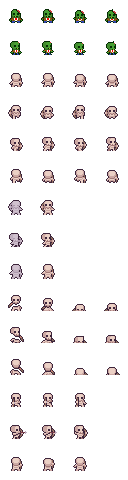
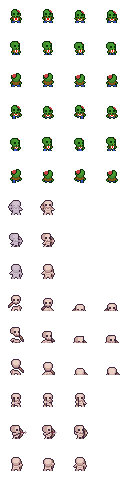
Added zombie player class, animated zombie movement.

diff --git a/src/Entities/Players/Zombie.java b/src/Entities/Players/Zombie.java
@@ -1,0 +1,194 @@
+package Entities.Players;
+
+import Handlers.ImageHandler;
+import Handlers.KeyHandler;
+import World.Tile;
+
+import java.awt.*;
+import java.awt.image.BufferedImage;
+
+public class Zombie extends Player{
+
+    BufferedImage sprites = ImageHandler.loadImage("Assets/Entities/Players/Zombie/zombies.png");
+    int column1 = 7, column2 = 39, column3 = 71, column4 = 103, row1 = 7, row2 = 39, row3 = 71, row4 = 103, row5 = 135, row6 = 167, row7 = 199, row8 = 231, row9 = 263, row10 = 295, row11 = 327, row12 = 359, row13 = 391, row14 = 423, row15 = 455;
+
+
+    /**
+     * Enemy that follows player
+     *
+     * @param health       enemy health
+     * @param speed        enemy speed
+     * @param width        enemy width
+     * @param height       enemy height
+     * @param name         enemy name
+     * @param worldX       world x position
+     * @param worldY       world y position
+     * @param xOffset      x offset for hitbox
+     * @param yOffset      y offset for hitbox
+     * @param hitBoxWidth  hitbox width
+     * @param hitBoxHeight hitbox height
+     * @param keyHandler   keyhandler to handle key presses
+     */
+    public Zombie(int health, double speed, int width, int height, String name, double worldX, double worldY, int xOffset, int yOffset, int hitBoxWidth, int hitBoxHeight, KeyHandler keyHandler) {
+        super(health, speed, width, height, name, worldX, worldY, xOffset, yOffset, hitBoxWidth, hitBoxHeight, keyHandler);
+        setCharacterState();
+    }
+
+    void setCharacterState(){
+        type = 'z';
+        characterAttackFrames = 36;
+        characterAttackCooldown = 30;
+        attackFrames = characterAttackFrames;
+        attackCooldown = characterAttackCooldown;
+        maxAnimationState = 3;
+    }
+
+    /**
+     * Updates the position of the player
+     * @param baseLayerTiles
+     */
+    public void update(Tile[][] baseLayerTiles) {
+        healthHandler.updateHealth(this.getHealth());
+        this.tiles = baseLayerTiles;
+        updateEntityPosition();
+        if (!attacking && !inAbility) move(); // If player is not attacking, they can move
+        hitbox.update(this); // Update hitbox
+        updateFrames();
+    }
+
+    @Override
+    public void draw(Graphics2D g2) {
+        if (!attacking && !inAbility) {
+            if (direction == 'd') {
+                if (!checkMoving()) {
+                    switch (animationState) {
+                        case 0:
+                            g2.drawImage(sprites, (int) screenX, (int) screenY, (int) screenX + getWidth(), (int) screenY + this.getHeight(), column1, row1, column1 + Tile.normalTileSize, row1 + Tile.normalTileSize, transparent, null);
+                            break;
+                        case 1:
+                            g2.drawImage(sprites, (int) screenX, (int) screenY, (int) screenX + getWidth(), (int) screenY + this.getHeight(), column2, row1, column2 + Tile.normalTileSize, row1 + Tile.normalTileSize, transparent, null);
+                            break;
+                        case 2:
+                            g2.drawImage(sprites, (int) screenX, (int) screenY, (int) screenX + getWidth(), (int) screenY + this.getHeight(), column3, row1, column3 + Tile.normalTileSize, row1 + Tile.normalTileSize, transparent, null);
+                            break;
+                        case 3:
+                            g2.drawImage(sprites, (int) screenX, (int) screenY, (int) screenX + getWidth(), (int) screenY + this.getHeight(), column4, row1, column4 + Tile.normalTileSize, row1 + Tile.normalTileSize, transparent, null);
+                            break;
+                    }
+                } else {
+                    switch (animationState) {
+                        case 0:
+                            g2.drawImage(sprites, (int) screenX, (int) screenY, (int) screenX + getWidth(), (int) screenY + this.getHeight(), column1, row4, column1 + Tile.normalTileSize, row4 + Tile.normalTileSize, transparent, null);
+                            break;
+                        case 1:
+                            g2.drawImage(sprites, (int) screenX, (int) screenY, (int) screenX + getWidth(), (int) screenY + this.getHeight(), column2, row4, column2 + Tile.normalTileSize, row4 + Tile.normalTileSize, transparent, null);
+                            break;
+                        case 2:
+                            g2.drawImage(sprites, (int) screenX, (int) screenY, (int) screenX + getWidth(), (int) screenY + this.getHeight(), column3, row4, column3 + Tile.normalTileSize, row4 + Tile.normalTileSize, transparent, null);
+                            break;
+                        case 3:
+                            g2.drawImage(sprites, (int) screenX, (int) screenY, (int) screenX + getWidth(), (int) screenY + this.getHeight(), column4, row4, column4 + Tile.normalTileSize, row4 + Tile.normalTileSize, transparent, null);
+                            break;
+                    }
+                }
+            } else if (direction == 'r') {
+                if (!checkMoving()) {
+                    switch (animationState) {
+                        case 0:
+                            g2.drawImage(sprites, (int) screenX, (int) screenY, (int) screenX + getWidth(), (int) screenY + this.getHeight(), column1, row2, column1 + Tile.normalTileSize, row2 + Tile.normalTileSize, transparent, null);
+                            break;
+                        case 1:
+                            g2.drawImage(sprites, (int) screenX, (int) screenY, (int) screenX + getWidth(), (int) screenY + this.getHeight(), column2, row2, column2 + Tile.normalTileSize, row2 + Tile.normalTileSize, transparent, null);
+                            break;
+                        case 2:
+                            g2.drawImage(sprites, (int) screenX, (int) screenY, (int) screenX + getWidth(), (int) screenY + this.getHeight(), column3, row2, column3 + Tile.normalTileSize, row2 + Tile.normalTileSize, transparent, null);
+                            break;
+                        case 3:
+                            g2.drawImage(sprites, (int) screenX, (int) screenY, (int) screenX + getWidth(), (int) screenY + this.getHeight(), column4, row2, column4 + Tile.normalTileSize, row2 + Tile.normalTileSize, transparent, null);
+                            break;
+                    }
+                } else {
+                    switch (animationState) {
+                        case 0:
+                            g2.drawImage(sprites, (int) screenX, (int) screenY, (int) screenX + getWidth(), (int) screenY + this.getHeight(), column1, row5, column1 + Tile.normalTileSize, row5 + Tile.normalTileSize, transparent, null);
+                            break;
+                        case 1:
+                            g2.drawImage(sprites, (int) screenX, (int) screenY, (int) screenX + getWidth(), (int) screenY + this.getHeight(), column2, row5, column2 + Tile.normalTileSize, row5 + Tile.normalTileSize, transparent, null);
+                            break;
+                        case 2:
+                            g2.drawImage(sprites, (int) screenX, (int) screenY, (int) screenX + getWidth(), (int) screenY + this.getHeight(), column3, row5, column3 + Tile.normalTileSize, row5 + Tile.normalTileSize, transparent, null);
+                            break;
+                        case 3:
+                            g2.drawImage(sprites, (int) screenX, (int) screenY, (int) screenX + getWidth(), (int) screenY + this.getHeight(), column4, row5, column4 + Tile.normalTileSize, row5 + Tile.normalTileSize, transparent, null);
+                            break;
+                    }
+                }
+            } else if (direction == 'u') {
+                if (!checkMoving()) {
+                    switch (animationState) {
+                        case 0:
+                            g2.drawImage(sprites, (int) screenX, (int) screenY, (int) screenX + getWidth(), (int) screenY + this.getHeight(), column1, row3, column1 + Tile.normalTileSize, row3 + Tile.normalTileSize, transparent, null);
+                            break;
+                        case 1:
+                            g2.drawImage(sprites, (int) screenX, (int) screenY, (int) screenX + getWidth(), (int) screenY + this.getHeight(), column2, row3, column2 + Tile.normalTileSize, row3 + Tile.normalTileSize, transparent, null);
+                            break;
+                        case 2:
+                            g2.drawImage(sprites, (int) screenX, (int) screenY, (int) screenX + getWidth(), (int) screenY + this.getHeight(), column3, row3, column3 + Tile.normalTileSize, row3 + Tile.normalTileSize, transparent, null);
+                            break;
+                        case 3:
+                            g2.drawImage(sprites, (int) screenX, (int) screenY, (int) screenX + getWidth(), (int) screenY + this.getHeight(), column4, row3, column4 + Tile.normalTileSize, row3 + Tile.normalTileSize, transparent, null);
+                            break;
+                    }
+                } else {
+                    switch (animationState) {
+                        case 0:
+                            g2.drawImage(sprites, (int) screenX, (int) screenY, (int) screenX + getWidth(), (int) screenY + this.getHeight(), column1, row6, column1 + Tile.normalTileSize, row6 + Tile.normalTileSize, transparent, null);
+                            break;
+                        case 1:
+                            g2.drawImage(sprites, (int) screenX, (int) screenY, (int) screenX + getWidth(), (int) screenY + this.getHeight(), column2, row6, column2 + Tile.normalTileSize, row6 + Tile.normalTileSize, transparent, null);
+                            break;
+                        case 2:
+                            g2.drawImage(sprites, (int) screenX, (int) screenY, (int) screenX + getWidth(), (int) screenY + this.getHeight(), column3, row6, column3 + Tile.normalTileSize, row6 + Tile.normalTileSize, transparent, null);
+                            break;
+                        case 3:
+                            g2.drawImage(sprites, (int) screenX, (int) screenY, (int) screenX + getWidth(), (int) screenY + this.getHeight(), column4, row6, column4 + Tile.normalTileSize, row6 + Tile.normalTileSize, transparent, null);
+                            break;
+                    }
+                }
+            } else {
+                if (!checkMoving()) {
+                    switch (animationState) {
+                        case 0:
+                            g2.drawImage(sprites, (int) screenX + getWidth(), (int) screenY, (int) screenX, (int) screenY + this.getHeight(), column1, row2, column1 + Tile.normalTileSize, row2 + Tile.normalTileSize, transparent, null);
+                            break;
+                        case 1:
+                            g2.drawImage(sprites, (int) screenX + getWidth(), (int) screenY, (int) screenX, (int) screenY + this.getHeight(), column2, row2, column2 + Tile.normalTileSize, row2 + Tile.normalTileSize, transparent, null);
+                            break;
+                        case 2:
+                            g2.drawImage(sprites, (int) screenX + getWidth(), (int) screenY, (int) screenX, (int) screenY + this.getHeight(), column3, row2, column3 + Tile.normalTileSize, row2 + Tile.normalTileSize, transparent, null);
+                            break;
+                        case 3:
+                            g2.drawImage(sprites, (int) screenX + getWidth(), (int) screenY, (int) screenX, (int) screenY + this.getHeight(), column4, row2, column4 + Tile.normalTileSize, row2 + Tile.normalTileSize, transparent, null);
+                            break;
+                    }
+                } else {
+                    switch (animationState) {
+                        case 0:
+                            g2.drawImage(sprites, (int) screenX + getWidth(), (int) screenY, (int) screenX, (int) screenY + this.getHeight(), column1, row5, column1 + Tile.normalTileSize, row5 + Tile.normalTileSize, transparent, null);
+                            break;
+                        case 1:
+                            g2.drawImage(sprites, (int) screenX + getWidth(), (int) screenY, (int) screenX, (int) screenY + this.getHeight(), column2, row5, column2 + Tile.normalTileSize, row5 + Tile.normalTileSize, transparent, null);
+                            break;
+                        case 2:
+                            g2.drawImage(sprites, (int) screenX + getWidth(), (int) screenY, (int) screenX, (int) screenY + this.getHeight(), column3, row5, column3 + Tile.normalTileSize, row5 + Tile.normalTileSize, transparent, null);
+                            break;
+                        case 3:
+                            g2.drawImage(sprites, (int) screenX + getWidth(), (int) screenY, (int) screenX, (int) screenY + this.getHeight(), column4, row5, column4 + Tile.normalTileSize, row5 + Tile.normalTileSize, transparent, null);
+                            break;
+                    }
+                }
+            }
+        }
+    }
+
+}

diff --git a/src/System/Panels/GamePanel.java b/src/System/Panels/GamePanel.java
@@ -1,10 +1,7 @@
 package System.Panels;
 
 import Entities.Enemies.EternalSnail;
-import Entities.Players.Goblin;
-import Entities.Players.Player;
-import Entities.Players.Skeleton;
-import Entities.Players.Vampire;
+import Entities.Players.*;
 import Handlers.AbilityHandler;
 import Handlers.HUD.InventoryHandler;
 import System.Main;
@@ -92,7 +89,7 @@ public class GamePanel extends JPanel implements Runnable{
     }
 
     void initiatePlayerType() {
-        if (CharacterSelectionPanel.selectedCharacter.equals("zombie")) player = new Skeleton(100, 4, Tile.tileSize, Tile.tileSize, "Player", 0, 0, 4*Tile.tileSize/Tile.normalTileSize, 6*Tile.tileSize/Tile.normalTileSize-1, 8*Tile.tileSize/Tile.normalTileSize, 10*Tile.tileSize/Tile.normalTileSize, keyHandler);
+        if (CharacterSelectionPanel.selectedCharacter.equals("zombie")) player = new Zombie(100, 4, Tile.tileSize, Tile.tileSize, "Player", 0, 0, 4*Tile.tileSize/Tile.normalTileSize, 6*Tile.tileSize/Tile.normalTileSize-1, 8*Tile.tileSize/Tile.normalTileSize, 10*Tile.tileSize/Tile.normalTileSize, keyHandler);
         else if (CharacterSelectionPanel.selectedCharacter.equals("skeleton")) player = new Skeleton(100, 4, Tile.tileSize, Tile.tileSize, "Player", 0, 0, 4*Tile.tileSize/Tile.normalTileSize, 6*Tile.tileSize/Tile.normalTileSize-1, 8*Tile.tileSize/Tile.normalTileSize, 10*Tile.tileSize/Tile.normalTileSize, keyHandler);
         else if (CharacterSelectionPanel.selectedCharacter.equals("goblin")) player = new Goblin(100, 4, Tile.tileSize, Tile.tileSize, "Player", 0, 0, 4*Tile.tileSize/Tile.normalTileSize, 6*Tile.tileSize/Tile.normalTileSize-1, 8*Tile.tileSize/Tile.normalTileSize, 10*Tile.tileSize/Tile.normalTileSize, keyHandler);
         else if (CharacterSelectionPanel.selectedCharacter.equals("vampire")) player = new Vampire(100, 4, Tile.tileSize, Tile.tileSize, "Player", 0, 0, 4*Tile.tileSize/Tile.normalTileSize, 6*Tile.tileSize/Tile.normalTileSize-1, 8*Tile.tileSize/Tile.normalTileSize, 10*Tile.tileSize/Tile.normalTileSize, keyHandler);
